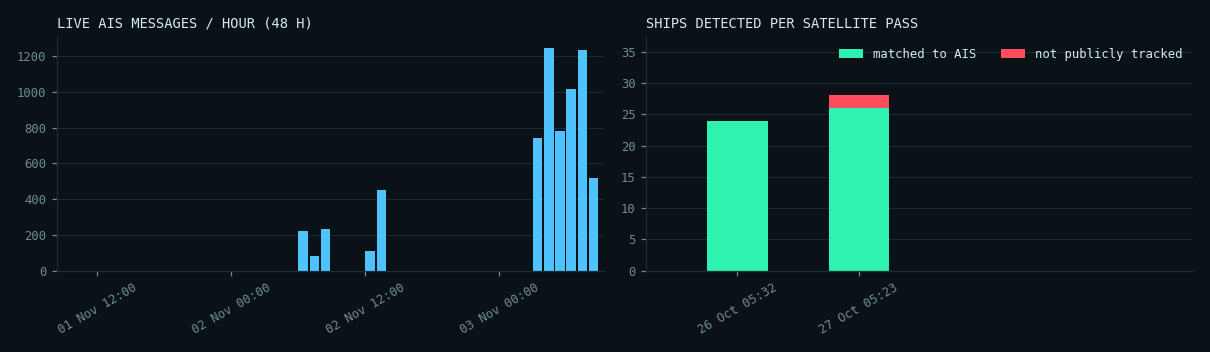
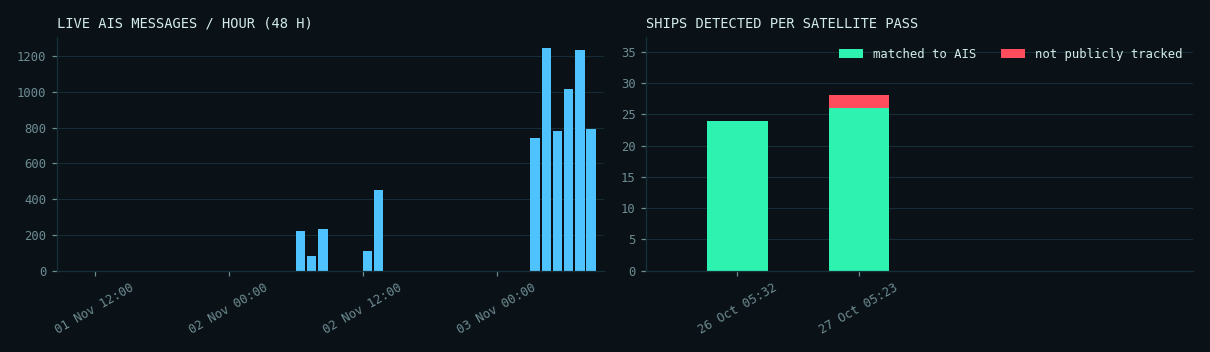
Automatic site update 2026-11-03 08:36 UTC

diff --git a/docs/denmark/index.html b/docs/denmark/index.html
@@ -83,13 +83,13 @@ footer{border-top:1px solid var(--line);padding:18px 0 28px;font:12px/1.6 var(--
   <div><div class="kicker">SAR &times; AIS &middot; MARITIME AWARENESS</div><div class="title">DARK VESSEL <b>DETECTION</b></div></div></a>
  <div class="status"><span class="pill"><span class="dot live"></span>AIS FEED <strong>LIVE</strong></span>
   <span class="pill">UTC <strong id="utc">--:--:--</strong></span>
-  <span class="pill">UPDATED <strong>03 Nov 08:22</strong></span></div>
+  <span class="pill">UPDATED <strong>03 Nov 08:36</strong></span></div>
 </div><nav class="tabs"><a class="" href="../index.html">OVERVIEW</a><a class="" href="../mumbai/index.html">MUMBAI</a><a class="on" href="../denmark/index.html">DENMARK</a><a class="" href="../nn/index.html">NEURAL NET</a><a class="" href="../demo/index.html">SIMULATION</a></nav></div></header>
 <main class="wrap"><div class="coords">SECTOR // DENMARK &middot; 55.55&ndash;55.85&deg;N &middot; 12.55&ndash;12.95&deg;E</div>
 <h1>Oresund, Copenhagen (Denmark/Sweden)</h1>
 <div class="grid">
  <div class="panel"><div class="label">Live AIS feed</div><div class="value small"><span class='ok'>RECEIVING</span></div><div class="muted mono" style="font-size:12px;margin-top:6px">0 min ago</div></div>
- <div class="panel"><div class="label">Ships broadcasting &middot; 30 min</div><div class="value cyan">64</div></div>
+ <div class="panel"><div class="label">Ships broadcasting &middot; 30 min</div><div class="value cyan">68</div></div>
  <div class="panel"><div class="label">Matched &middot; latest pass</div><div class="value ">26</div></div>
  <div class="panel"><div class="label">Not tracked &middot; high confidence</div><div class="value red">0</div></div>
  <div class="panel"><div class="label">Not tracked &middot; low confidence</div><div class="value amber">2</div></div>
@@ -98,7 +98,7 @@ footer{border-top:1px solid var(--line);padding:18px 0 28px;font:12px/1.6 var(--
 <div class="legend"><span><i style="background:var(--green)"></i>matched</span><span><i style="background:var(--red)"></i>not tracked &middot; high</span>
 <span><i style="background:var(--amber)"></i>not tracked &middot; low</span><span><i style="background:var(--cyan)"></i>live AIS</span></div>
 <div id="map" class="map"></div><script>
-const D=[{"lon": 12.574560869565218, "lat": 55.849597826086956, "length_m": 72.681575622935, "score": 0.6554655519501138, "shore_km": 0.14150886088341372, "status": "matched", "reason": "", "confidence": "high", "crop": "", "ship_prob": 0.9335045218467712}, {"lon": 12.704759174311928, "lat": 55.82280412844037, "length_m": 364.1071436957287, "score": 0.9904753373251979, "shore_km": 9.407061429825474, "status": "matched", "reason": "", "confidence": "high", "crop": "", "ship_prob": 0.9868959784507751}, {"lon": 12.786416463414636, "lat": 55.804669512195126, "length_m": 155.0522474362954, "score": 0.9999646038759398, "shore_km": 4.658419014138412, "status": "matched", "reason": "", "confidence": "high", "crop": "", "ship_prob": 0.9993557333946228}, {"lon": 12.88229375, "lat": 55.849146875, "length_m": 53.38783327710226, "score": 0.9899546194309776, "shore_km": 0.9067240720863213, "status": "candidate", "reason": "same_spot_in_another_pass", "confidence": "low", "crop": "crops/S1-Oresund-20261027_37.png", "ship_prob": 0.7905591130256653}, {"lon": 12.604004166666668, "lat": 55.75985, "length_m": 141.84238362073958, "score": 0.6867268898684522, "shore_km": 0.07168283192738693, "status": "matched", "reason": "", "confidence": "high", "crop": "", "ship_prob": 0.5051270127296448}, {"lon": 12.605736764705883, "lat": 55.75241323529412, "length_m": 122.11483240811877, "score": 0.9136889320646264, "shore_km": 0.6454382429486746, "status": "candidate", "reason": "same_spot_in_another_pass", "confidence": "low", "crop": "crops/S1-Oresund-20261027_77.png", "ship_prob": 0.7927113175392151}, {"lon": 12.703722571428573, "lat": 55.77917742857143, "length_m": 223.0817648726515, "score": 0.9996320924909895, "shore_km": 5.943270442766068, "status": "matched", "reason": "", "confidence": "high", "crop": "", "ship_prob": 0.9938097596168518}, {"lon": 12.902757692307693, "lat": 55.75654230769231, "length_m": 65.46226537445588, "score": 0.7187896049600956, "shore_km": 0.03584141596369347, "status": "matched", "reason": "", "confidence": "high", "crop": "", "ship_prob": 0.8691755533218384}, {"lon": 12.589922222222222, "lat": 55.725764814814816, "length_m": 146.45480845096748, "score": 0.9957587025210503, "shore_km": 0.034771280891766385, "status": "matched", "reason": "", "confidence": "high", "crop": "", "ship_prob": 0.9983701109886169}, {"lon": 12.598472047244096, "lat": 55.72077913385827, "length_m": 207.62671185403417, "score": 0.609772230082722, "shore_km": 0.14016751439395445, "status": "matched", "reason": "", "confidence": "high", "crop": "", "ship_prob": 0.6074324250221252}, {"lon": 12.589218, "lat": 55.712854, "length_m": 90.49550243938293, "score": 0.6486089656085543, "shore_km": 0.043464101114707984, "status": "matched", "reason": "", "confidence": "high", "crop": "", "ship_prob": 0.9998902082443237}, {"lon": 12.59024090909091, "lat": 55.71147090909091, "length_m": 162.54265478639104, "score": 1.0, "shore_km": 0.06146752127277559, "status": "matched", "reason": "", "confidence": "high", "crop": "", "ship_prob": 0.9999992847442627}, {"lon": 12.597835937500001, "lat": 55.701648437500005, "length_m": 133.31776511703256, "score": 0.9396217092764791, "shore_km": 0.06789309632894441, "status": "matched", "reason": "", "confidence": "high", "crop": "", "ship_prob": 0.9999727010726929}, {"lon": 12.60914, "lat": 55.69712, "length_m": 65.36743236464424, "score": 0.7827588237578229, "shore_km": 0.03134240904220623, "status": "matched", "reason": "", "confidence": "high", "crop": "", "ship_prob": 0.9867132902145386}, {"lon": 12.668552272727274, "lat": 55.72007840909091, "length_m": 207.26605497726354, "score": 0.6251792307103263, "shore_km": 0.03584141596369347, "status": "matched", "reason": "", "confidence": "high", "crop": "", "ship_prob": 0.9087074398994446}, {"lon": 12.5996, "lat": 55.68885, "length_m": 40.00855981470757, "score": 0.7664068666153926, "shore_km": 0.024587008509110237, "status": "matched", "reason": "", "confidence": "high", "crop": "", "ship_prob": 0.9766618013381958}, {"lon": 12.595819230769232, "lat": 55.67989871794872, "length_m": 127.62371588738732, "score": 0.9426870407335851, "shore_km": 0.05068741655051085, "status": "matched", "reason": "", "confidence": "high", "crop": "", "ship_prob": 0.9998841285705566}, {"lon": 12.594722222222224, "lat": 55.67918888888889, "length_m": 40.64467714079742, "score": 0.7639524834029205, "shore_km": 0.043464101114707984, "status": "matched", "reason": "", "confidence": "high", "crop": "", "ship_prob": 0.9999454021453857}, {"lon": 12.610660714285714, "lat": 55.69618571428572, "length_m": 94.51225356515693, "score": 0.9621795096736379, "shore_km": 0.03134240904220623, "status": "matched", "reason": "", "confidence": "high", "crop": "", "ship_prob": 0.999042809009552}, {"lon": 12.649045000000001, "lat": 55.692155, "length_m": 80.63364746000343, "score": 0.8515033668168979, "shore_km": 0.8863693295037299, "status": "matched", "reason": "", "confidence": "high", "crop": "", "ship_prob": 0.4333752989768982}, {"lon": 12.630751724137932, "lat": 55.685453448275865, "length_m": 125.00287123881988, "score": 0.93629426700422, "shore_km": 0.043464101114707984, "status": "matched", "reason": "", "confidence": "high", "crop": "", "ship_prob": 0.9975905418395996}, {"lon": 12.634987254901962, "lat": 55.677338235294116, "length_m": 276.5478352749318, "score": 0.7686103584091717, "shore_km": 0.024587008509110237, "status": "matched", "reason": "", "confidence": "high", "crop": "", "ship_prob": 0.9729636907577515}, {"lon": 12.68766150442478, "lat": 55.69581814159292, "length_m": 176.8074930452176, "score": 0.923202226335388, "shore_km": 2.6834920471942074, "status": "matched", "reason": "", "confidence": "high", "crop": "", "ship_prob": 0.8427141904830933}, {"lon": 12.65826847826087, "lat": 55.63610108695652, "length_m": 174.21377549767067, "score": 0.9833187000337672, "shore_km": 0.043464101114707984, "status": "matched", "reason": "", "confidence": "high", "crop": "", "ship_prob": 0.9998973608016968}, {"lon": 12.680683333333334, "lat": 55.610910000000004, "length_m": 74.22790892756812, "score": 0.6314184609397504, "shore_km": 0.03134240904220623, "status": "matched", "reason": "", "confidence": "high", "crop": "", "ship_prob": 0.44054293632507324}, {"lon": 12.868352132196163, "lat": 55.60022420042644, "length_m": 299.20726350177785, "score": 0.9999960398718075, "shore_km": 2.8169298200726325, "status": "matched", "reason": "", "confidence": "high", "crop": "", "ship_prob": 0.9967911839485168}, {"lon": 12.680875, "lat": 55.59323, "length_m": 95.51211981545671, "score": 0.7585723176580392, "shore_km": 0.03584141596369347, "status": "matched", "reason": "", "confidence": "high", "crop": "", "ship_prob": 0.797581672668457}, {"lon": 12.706387741935485, "lat": 55.56306903225806, "length_m": 301.4640427512081, "score": 0.9999731380181186, "shore_km": 3.1965238712919084, "status": "matched", "reason": "", "confidence": "high", "crop": "", "ship_prob": 0.9941650032997131}],LIVE=[{"lon": 12.830425, "lat": 55.85599, "sog": 0.0, "age": 28}, {"lon": 12.630728333333334, "lat": 55.68986333333333, "sog": 0.1, "age": 27}, {"lon": 13.03514, "lat": 55.6247, "sog": 0.1, "age": 26}, {"lon": 12.480878333333333, "lat": 55.60677666666666, "sog": 0.0, "age": 16}, {"lon": 12.639091666666667, "lat": 55.67879333333334, "sog": 1.0, "age": 12}, {"lon": 12.592986666666667, "lat": 55.67928, "sog": 0.0, "age": 12}, {"lon": 12.827605, "lat": 55.86271, "sog": 0.0, "age": 11}, {"lon": 12.730686666666665, "lat": 55.98034, "sog": 0.0, "age": 9}, {"lon": 12.990166666666665, "lat": 55.62689833333333, "sog": 0.0, "age": 9}, {"lon": 12.831391666666667, "lat": 55.85628, "sog": 0.0, "age": 8}, {"lon": 12.646895, "lat": 55.67737833333333, "sog": 0.0, "age": 8}, {"lon": 12.66594, "lat": 55.71981666666667, "sog": 0.1, "age": 8}, {"lon": 12.999791666666665, "lat": 55.618365000000004, "sog": 0.0, "age": 8}, {"lon": 12.892128333333334, "lat": 55.52374833333333, "sog": 0.0, "age": 7}, {"lon": 12.489641666666667, "lat": 55.51907333333334, "sog": 0.2, "age": 7}, {"lon": 12.688881666666667, "lat": 55.64696166666667, "sog": 8.1, "age": 6}, {"lon": 12.8329, "lat": 55.85850666666667, "sog": 0.0, "age": 6}, {"lon": 13.033326666666666, "lat": 55.62448833333334, "sog": 0.0, "age": 6}, {"lon": 12.809384999999999, "lat": 55.789375, "sog": 5.4, "age": 5}, {"lon": 12.997251666666667, "lat": 55.613775000000004, "sog": 0.0, "age": 5}, {"lon": 12.681753333333335, "lat": 55.691345, "sog": 5.9, "age": 5}, {"lon": 12.903498333333333, "lat": 55.75664166666666, "sog": 0.0, "age": 5}, {"lon": 12.744433333333335, "lat": 55.993325, "sog": 0.0, "age": 4}, {"lon": 12.625316666666667, "lat": 55.69106166666666, "sog": 0.0, "age": 4}, {"lon": 12.603466666666666, "lat": 55.76049166666667, "sog": 0.0, "age": 4}, {"lon": 12.67758, "lat": 55.98419166666667, "sog": 10.6, "age": 4}, {"lon": 12.482451666666666, "lat": 55.60140666666667, "sog": 0.0, "age": 4}, {"lon": 12.833683333333333, "lat": 55.855783333333335, "sog": 0.0, "age": 3}, {"lon": 12.739681666666666, "lat": 55.897131666666674, "sog": 9.6, "age": 3}, {"lon": 12.823663333333334, "lat": 55.86639, "sog": 0.1, "age": 3}, {"lon": 12.593518333333332, "lat": 55.67912333333334, "sog": 0.0, "age": 3}, {"lon": 12.603548333333332, "lat": 55.760576666666665, "sog": 0.0, "age": 3}, {"lon": 12.690883333333334, "lat": 55.77538333333334, "sog": 14.9, "age": 3}, {"lon": 12.831928333333334, "lat": 55.85404166666667, "sog": 0.0, "age": 3}, {"lon": 12.647468333333334, "lat": 55.67688333333333, "sog": 0.0, "age": 3}, {"lon": 12.721328333333334, "lat": 55.92482, "sog": 10.3, "age": 3}, {"lon": 12.594946666666667, "lat": 55.68246333333333, "sog": 0.0, "age": 2}, {"lon": 12.521343333333334, "lat": 55.52117166666667, "sog": 18.8, "age": 2}, {"lon": 12.796118333333334, "lat": 55.55382833333333, "sog": 10.3, "age": 2}, {"lon": 12.634115000000001, "lat": 55.675761666666666, "sog": 0.0, "age": 2}, {"lon": 12.70016, "lat": 55.59504333333334, "sog": 9.5, "age": 2}, {"lon": 12.83515, "lat": 55.85987, "sog": 0.0, "age": 2}, {"lon": 12.833300000000001, "lat": 55.855866666666664, "sog": 0.0, "age": 2}, {"lon": 12.67643, "lat": 55.93197333333333, "sog": 0.0, "age": 1}, {"lon": 12.492038333333333, "lat": 55.56097833333333, "sog": 7.5, "age": 1}, {"lon": 12.676893333333334, "lat": 55.593920000000004, "sog": 0.0, "age": 1}, {"lon": 13.058505, "lat": 55.67566333333333, "sog": 0.0, "age": 1}, {"lon": 12.828123333333334, "lat": 55.86167833333333, "sog": 0.0, "age": 1}, {"lon": 12.688268333333333, "lat": 55.68913166666667, "sog": 8.5, "age": 1}, {"lon": 12.744454999999999, "lat": 55.99321333333333, "sog": 0.0, "age": 1}, {"lon": 12.988933333333334, "lat": 55.62665833333333, "sog": 0.0, "age": 1}, {"lon": 12.840093333333334, "lat": 55.5841, "sog": 10.8, "age": 1}, {"lon": 12.528416666666667, "lat": 55.46859666666667, "sog": 4.4, "age": 1}, {"lon": 12.680121666666668, "lat": 55.592888333333335, "sog": 0.0, "age": 0}, {"lon": 12.824866666666667, "lat": 55.865916666666664, "sog": 0.0, "age": 0}, {"lon": 12.723086666666667, "lat": 55.93900166666666, "sog": 1.3, "age": 0}, {"lon": 12.501045, "lat": 55.61134333333334, "sog": 0.0, "age": 0}, {"lon": 12.572743333333333, "lat": 55.850855, "sog": 0.0, "age": 0}, {"lon": 12.730271666666665, "lat": 55.75218666666667, "sog": 0.0, "age": 0}, {"lon": 12.718261666666667, "lat": 55.81715666666666, "sog": 11.9, "age": 0}, {"lon": 13.033801666666667, "lat": 55.62455, "sog": 0.0, "age": 0}, {"lon": 12.643278333333335, "lat": 55.679096666666666, "sog": 0.0, "age": 0}, {"lon": 12.726116666666666, "lat": 55.92778333333333, "sog": 15.2, "age": 0}, {"lon": 12.701908333333334, "lat": 55.988905, "sog": 12.9, "age": 0}],B=[[55.55,12.55],[55.85,12.95]];const m=L.map('map',{zoomSnap:.25}).fitBounds(B);
+const D=[{"lon": 12.574560869565218, "lat": 55.849597826086956, "length_m": 72.681575622935, "score": 0.6554655519501138, "shore_km": 0.14150886088341372, "status": "matched", "reason": "", "confidence": "high", "crop": "", "ship_prob": 0.9335045218467712}, {"lon": 12.704759174311928, "lat": 55.82280412844037, "length_m": 364.1071436957287, "score": 0.9904753373251979, "shore_km": 9.407061429825474, "status": "matched", "reason": "", "confidence": "high", "crop": "", "ship_prob": 0.9868959784507751}, {"lon": 12.786416463414636, "lat": 55.804669512195126, "length_m": 155.0522474362954, "score": 0.9999646038759398, "shore_km": 4.658419014138412, "status": "matched", "reason": "", "confidence": "high", "crop": "", "ship_prob": 0.9993557333946228}, {"lon": 12.88229375, "lat": 55.849146875, "length_m": 53.38783327710226, "score": 0.9899546194309776, "shore_km": 0.9067240720863213, "status": "candidate", "reason": "same_spot_in_another_pass", "confidence": "low", "crop": "crops/S1-Oresund-20261027_37.png", "ship_prob": 0.7905591130256653}, {"lon": 12.604004166666668, "lat": 55.75985, "length_m": 141.84238362073958, "score": 0.6867268898684522, "shore_km": 0.07168283192738693, "status": "matched", "reason": "", "confidence": "high", "crop": "", "ship_prob": 0.5051270127296448}, {"lon": 12.605736764705883, "lat": 55.75241323529412, "length_m": 122.11483240811877, "score": 0.9136889320646264, "shore_km": 0.6454382429486746, "status": "candidate", "reason": "same_spot_in_another_pass", "confidence": "low", "crop": "crops/S1-Oresund-20261027_77.png", "ship_prob": 0.7927113175392151}, {"lon": 12.703722571428573, "lat": 55.77917742857143, "length_m": 223.0817648726515, "score": 0.9996320924909895, "shore_km": 5.943270442766068, "status": "matched", "reason": "", "confidence": "high", "crop": "", "ship_prob": 0.9938097596168518}, {"lon": 12.902757692307693, "lat": 55.75654230769231, "length_m": 65.46226537445588, "score": 0.7187896049600956, "shore_km": 0.03584141596369347, "status": "matched", "reason": "", "confidence": "high", "crop": "", "ship_prob": 0.8691755533218384}, {"lon": 12.589922222222222, "lat": 55.725764814814816, "length_m": 146.45480845096748, "score": 0.9957587025210503, "shore_km": 0.034771280891766385, "status": "matched", "reason": "", "confidence": "high", "crop": "", "ship_prob": 0.9983701109886169}, {"lon": 12.598472047244096, "lat": 55.72077913385827, "length_m": 207.62671185403417, "score": 0.609772230082722, "shore_km": 0.14016751439395445, "status": "matched", "reason": "", "confidence": "high", "crop": "", "ship_prob": 0.6074324250221252}, {"lon": 12.589218, "lat": 55.712854, "length_m": 90.49550243938293, "score": 0.6486089656085543, "shore_km": 0.043464101114707984, "status": "matched", "reason": "", "confidence": "high", "crop": "", "ship_prob": 0.9998902082443237}, {"lon": 12.59024090909091, "lat": 55.71147090909091, "length_m": 162.54265478639104, "score": 1.0, "shore_km": 0.06146752127277559, "status": "matched", "reason": "", "confidence": "high", "crop": "", "ship_prob": 0.9999992847442627}, {"lon": 12.597835937500001, "lat": 55.701648437500005, "length_m": 133.31776511703256, "score": 0.9396217092764791, "shore_km": 0.06789309632894441, "status": "matched", "reason": "", "confidence": "high", "crop": "", "ship_prob": 0.9999727010726929}, {"lon": 12.60914, "lat": 55.69712, "length_m": 65.36743236464424, "score": 0.7827588237578229, "shore_km": 0.03134240904220623, "status": "matched", "reason": "", "confidence": "high", "crop": "", "ship_prob": 0.9867132902145386}, {"lon": 12.668552272727274, "lat": 55.72007840909091, "length_m": 207.26605497726354, "score": 0.6251792307103263, "shore_km": 0.03584141596369347, "status": "matched", "reason": "", "confidence": "high", "crop": "", "ship_prob": 0.9087074398994446}, {"lon": 12.5996, "lat": 55.68885, "length_m": 40.00855981470757, "score": 0.7664068666153926, "shore_km": 0.024587008509110237, "status": "matched", "reason": "", "confidence": "high", "crop": "", "ship_prob": 0.9766618013381958}, {"lon": 12.595819230769232, "lat": 55.67989871794872, "length_m": 127.62371588738732, "score": 0.9426870407335851, "shore_km": 0.05068741655051085, "status": "matched", "reason": "", "confidence": "high", "crop": "", "ship_prob": 0.9998841285705566}, {"lon": 12.594722222222224, "lat": 55.67918888888889, "length_m": 40.64467714079742, "score": 0.7639524834029205, "shore_km": 0.043464101114707984, "status": "matched", "reason": "", "confidence": "high", "crop": "", "ship_prob": 0.9999454021453857}, {"lon": 12.610660714285714, "lat": 55.69618571428572, "length_m": 94.51225356515693, "score": 0.9621795096736379, "shore_km": 0.03134240904220623, "status": "matched", "reason": "", "confidence": "high", "crop": "", "ship_prob": 0.999042809009552}, {"lon": 12.649045000000001, "lat": 55.692155, "length_m": 80.63364746000343, "score": 0.8515033668168979, "shore_km": 0.8863693295037299, "status": "matched", "reason": "", "confidence": "high", "crop": "", "ship_prob": 0.4333752989768982}, {"lon": 12.630751724137932, "lat": 55.685453448275865, "length_m": 125.00287123881988, "score": 0.93629426700422, "shore_km": 0.043464101114707984, "status": "matched", "reason": "", "confidence": "high", "crop": "", "ship_prob": 0.9975905418395996}, {"lon": 12.634987254901962, "lat": 55.677338235294116, "length_m": 276.5478352749318, "score": 0.7686103584091717, "shore_km": 0.024587008509110237, "status": "matched", "reason": "", "confidence": "high", "crop": "", "ship_prob": 0.9729636907577515}, {"lon": 12.68766150442478, "lat": 55.69581814159292, "length_m": 176.8074930452176, "score": 0.923202226335388, "shore_km": 2.6834920471942074, "status": "matched", "reason": "", "confidence": "high", "crop": "", "ship_prob": 0.8427141904830933}, {"lon": 12.65826847826087, "lat": 55.63610108695652, "length_m": 174.21377549767067, "score": 0.9833187000337672, "shore_km": 0.043464101114707984, "status": "matched", "reason": "", "confidence": "high", "crop": "", "ship_prob": 0.9998973608016968}, {"lon": 12.680683333333334, "lat": 55.610910000000004, "length_m": 74.22790892756812, "score": 0.6314184609397504, "shore_km": 0.03134240904220623, "status": "matched", "reason": "", "confidence": "high", "crop": "", "ship_prob": 0.44054293632507324}, {"lon": 12.868352132196163, "lat": 55.60022420042644, "length_m": 299.20726350177785, "score": 0.9999960398718075, "shore_km": 2.8169298200726325, "status": "matched", "reason": "", "confidence": "high", "crop": "", "ship_prob": 0.9967911839485168}, {"lon": 12.680875, "lat": 55.59323, "length_m": 95.51211981545671, "score": 0.7585723176580392, "shore_km": 0.03584141596369347, "status": "matched", "reason": "", "confidence": "high", "crop": "", "ship_prob": 0.797581672668457}, {"lon": 12.706387741935485, "lat": 55.56306903225806, "length_m": 301.4640427512081, "score": 0.9999731380181186, "shore_km": 3.1965238712919084, "status": "matched", "reason": "", "confidence": "high", "crop": "", "ship_prob": 0.9941650032997131}],LIVE=[{"lon": 12.639091666666667, "lat": 55.67879333333334, "sog": 1.0, "age": 27}, {"lon": 12.827605, "lat": 55.86271, "sog": 0.0, "age": 25}, {"lon": 12.730686666666665, "lat": 55.98034, "sog": 0.0, "age": 23}, {"lon": 12.990166666666665, "lat": 55.62689833333333, "sog": 0.0, "age": 23}, {"lon": 12.831391666666667, "lat": 55.85628, "sog": 0.0, "age": 23}, {"lon": 12.8329, "lat": 55.85850666666667, "sog": 0.0, "age": 20}, {"lon": 12.809384999999999, "lat": 55.789375, "sog": 5.4, "age": 20}, {"lon": 12.997251666666667, "lat": 55.613775000000004, "sog": 0.0, "age": 19}, {"lon": 12.603466666666666, "lat": 55.76049166666667, "sog": 0.0, "age": 18}, {"lon": 12.833683333333333, "lat": 55.855783333333335, "sog": 0.0, "age": 18}, {"lon": 12.603548333333332, "lat": 55.760576666666665, "sog": 0.0, "age": 17}, {"lon": 12.594946666666667, "lat": 55.68246333333333, "sog": 0.0, "age": 16}, {"lon": 12.83515, "lat": 55.85987, "sog": 0.0, "age": 16}, {"lon": 12.833300000000001, "lat": 55.855866666666664, "sog": 0.0, "age": 16}, {"lon": 12.492038333333333, "lat": 55.56097833333333, "sog": 7.5, "age": 15}, {"lon": 12.828123333333334, "lat": 55.86167833333333, "sog": 0.0, "age": 15}, {"lon": 12.701908333333334, "lat": 55.988905, "sog": 12.9, "age": 14}, {"lon": 12.830431666666668, "lat": 55.85602333333333, "sog": 0.0, "age": 13}, {"lon": 12.892198333333333, "lat": 55.523715, "sog": 0.0, "age": 12}, {"lon": 12.687161666666666, "lat": 55.96540166666667, "sog": 10.9, "age": 12}, {"lon": 12.64747, "lat": 55.676885, "sog": 0.0, "age": 12}, {"lon": 12.722166666666668, "lat": 55.93974, "sog": 1.3, "age": 12}, {"lon": 13.033375000000001, "lat": 55.624435, "sog": 0.0, "age": 11}, {"lon": 12.526053333333333, "lat": 55.47304, "sog": 4.1, "age": 11}, {"lon": 12.593545, "lat": 55.679175, "sog": 0.0, "age": 9}, {"lon": 12.676919999999999, "lat": 55.59390166666667, "sog": 0.0, "age": 7}, {"lon": 12.999793333333335, "lat": 55.618365000000004, "sog": 0.0, "age": 7}, {"lon": 12.53445, "lat": 55.524188333333335, "sog": 19.8, "age": 7}, {"lon": 12.599036666666667, "lat": 55.68904166666667, "sog": 0.0, "age": 6}, {"lon": 13.035161666666665, "lat": 55.624705, "sog": 0.1, "age": 5}, {"lon": 12.655683333333334, "lat": 55.72935, "sog": 15.0, "age": 5}, {"lon": 12.62528, "lat": 55.691065, "sog": 0.0, "age": 5}, {"lon": 12.831928333333334, "lat": 55.85404166666667, "sog": 0.0, "age": 5}, {"lon": 12.69608, "lat": 55.42200666666667, "sog": 11.1, "age": 5}, {"lon": 12.744439999999999, "lat": 55.99322333333334, "sog": 0.0, "age": 5}, {"lon": 12.903505, "lat": 55.756636666666665, "sog": 0.1, "age": 5}, {"lon": 12.676256666666665, "lat": 55.932046666666665, "sog": 0.0, "age": 5}, {"lon": 12.572745, "lat": 55.85084833333334, "sog": 0.0, "age": 4}, {"lon": 12.728375, "lat": 55.85230166666667, "sog": 11.9, "age": 3}, {"lon": 12.738768333333333, "lat": 55.89027166666666, "sog": 9.7, "age": 3}, {"lon": 12.82585, "lat": 55.854016666666666, "sog": 0.0, "age": 3}, {"lon": 12.839925, "lat": 55.582755, "sog": 10.9, "age": 3}, {"lon": 12.984816666666667, "lat": 55.62298166666667, "sog": 18.0, "age": 3}, {"lon": 12.988918333333334, "lat": 55.626675, "sog": 0.0, "age": 3}, {"lon": 12.501033333333334, "lat": 55.611356666666666, "sog": 0.0, "age": 2}, {"lon": 12.73043, "lat": 55.75215166666667, "sog": 0.0, "age": 2}, {"lon": 12.680068333333333, "lat": 55.59288333333333, "sog": 0.0, "age": 2}, {"lon": 12.630783333333333, "lat": 55.689840000000004, "sog": 0.0, "age": 2}, {"lon": 12.497011666666667, "lat": 55.53411333333334, "sog": 7.0, "age": 2}, {"lon": 12.646908333333332, "lat": 55.677371666666666, "sog": 0.0, "age": 2}, {"lon": 12.823661666666668, "lat": 55.866409999999995, "sog": 0.1, "age": 1}, {"lon": 12.696940000000001, "lat": 55.605983333333334, "sog": 7.5, "age": 1}, {"lon": 12.88644, "lat": 55.614673333333336, "sog": 10.1, "age": 1}, {"lon": 12.634125000000001, "lat": 55.675756666666665, "sog": 0.0, "age": 1}, {"lon": 12.74227, "lat": 55.878238333333336, "sog": 15.1, "age": 1}, {"lon": 12.665913333333332, "lat": 55.719831666666664, "sog": 0.0, "age": 1}, {"lon": 13.058508333333332, "lat": 55.67567666666666, "sog": 0.0, "age": 1}, {"lon": 12.689816666666667, "lat": 55.72338, "sog": 8.9, "age": 1}, {"lon": 12.800051666666667, "lat": 55.86782, "sog": 9.9, "age": 1}, {"lon": 13.033778333333334, "lat": 55.62455666666666, "sog": 0.0, "age": 0}, {"lon": 12.68256, "lat": 55.66080833333333, "sog": 6.3, "age": 0}, {"lon": 12.696246666666667, "lat": 55.636190000000006, "sog": 10.2, "age": 0}, {"lon": 12.634856666666668, "lat": 55.68714166666667, "sog": 0.0, "age": 0}, {"lon": 12.592981666666667, "lat": 55.679296666666666, "sog": 0.0, "age": 0}, {"lon": 12.482456666666668, "lat": 55.60140666666667, "sog": 0.0, "age": 0}, {"lon": 12.64327, "lat": 55.67906833333333, "sog": 0.1, "age": 0}, {"lon": 12.680443333333333, "lat": 55.61125333333334, "sog": 0.0, "age": 0}, {"lon": 12.744451666666667, "lat": 55.993305, "sog": 0.0, "age": 0}],B=[[55.55,12.55],[55.85,12.95]];const m=L.map('map',{zoomSnap:.25}).fitBounds(B);
 // re-fit once layout has settled: if the container had no size when the map was created, Leaflet falls back to zoom 0
 const refit=()=>{m.invalidateSize();m.fitBounds(B);};setTimeout(refit,0);window.addEventListener('load',refit);
 // standard OSM tiles (no API key), turned into a dark "radar console" basemap with a CSS filter (.radar-tiles)
@@ -116,8 +116,8 @@ L.control.layers(null,{'Radar detections (selected pass)':det,'Live AIS, last 30
 </script>
 <h2>Pass log</h2><div class='tablewrap'><table><thead><tr><th>pass (UTC)</th><th>ships</th><th>matched</th><th>not tracked</th><th>low conf.</th><th>match rate</th><th>AIS msgs</th></tr></thead><tbody><tr><td>2026-10-27 05:23 UTC</td><td>28</td><td class='ok'>26</td><td class='bad'>0</td><td style='color:var(--amber)'>2</td><td>93%</td><td>10687</td></tr><tr><td>2026-10-26 05:32 UTC</td><td>24</td><td class='ok'>24</td><td class='bad'>0</td><td style='color:var(--amber)'>0</td><td>100%</td><td>11603</td></tr></tbody></table></div>
 <h2>Telemetry</h2><img class="chart" src="charts.png" alt="AIS messages per hour and ships detected per pass">
-<ul class="acq" style="margin-top:10px"><li>AIS MSG / H &middot; 1338</li><li>FEED GAPS 24 H &middot; 16
-(1157 min)</li></ul>
+<ul class="acq" style="margin-top:10px"><li>AIS MSG / H &middot; 1312</li><li>FEED GAPS 24 H &middot; 16
+(1144 min)</li></ul>
 <h2>Sentinel-1 acquisitions &middot; 14 days</h2><ul class="acq"><li>2026-11-02 05:23 UTC</li><li>2026-11-01 16:44 UTC</li><li>2026-11-01 05:31 UTC</li><li>2026-10-31 16:52 UTC</li><li>2026-10-30 17:00 UTC</li><li>2026-10-27 05:23 UTC</li><li>2026-10-26 05:32 UTC</li><li>2026-10-25 16:52 UTC</li></ul></main>
 <footer><div class="wrap">Contains modified Copernicus Sentinel data 2026 &middot; AIS: aisstream.io, Danish Maritime Authority &middot;
 &copy; OpenStreetMap contributors</div></footer>

diff --git a/docs/index.html b/docs/index.html
@@ -83,13 +83,13 @@ footer{border-top:1px solid var(--line);padding:18px 0 28px;font:12px/1.6 var(--
   <div><div class="kicker">SAR &times; AIS &middot; MARITIME AWARENESS</div><div class="title">DARK VESSEL <b>DETECTION</b></div></div></a>
  <div class="status"><span class="pill"><span class="dot live"></span>AIS FEED <strong>LIVE</strong></span>
   <span class="pill">UTC <strong id="utc">--:--:--</strong></span>
-  <span class="pill">UPDATED <strong>03 Nov 08:22</strong></span></div>
+  <span class="pill">UPDATED <strong>03 Nov 08:36</strong></span></div>
 </div><nav class="tabs"><a class="on" href="index.html">OVERVIEW</a><a class="" href="mumbai/index.html">MUMBAI</a><a class="" href="denmark/index.html">DENMARK</a><a class="" href="nn/index.html">NEURAL NET</a><a class="" href="demo/index.html">SIMULATION</a></nav></div></header>
 <main class="wrap"><div class="coords">SYSTEM OVERVIEW</div>
 <h1>Ships the radar sees that nobody is tracking</h1>
 <div class="grid" style="margin-top:18px"><div class="panel"><div class="label">Satellite passes processed</div><div class="value ">3</div></div><div class="panel"><div class="label">Ships matched to AIS</div><div class="value ">50</div></div>
 <div class="panel"><div class="label">Not tracked &middot; high confidence</div><div class="value red">0</div></div><div class="panel"><div class="label">Not tracked &middot; low confidence</div><div class="value amber">117</div></div>
-<div class="panel"><div class="label">Broadcasting now &middot; 30 min</div><div class="value cyan">64</div></div></div>
+<div class="panel"><div class="label">Broadcasting now &middot; 30 min</div><div class="value cyan">68</div></div></div>
 <h2>Pipeline</h2><div class="flow"><div class="step"><div class="n">01</div><div class="t">Radar image</div><div class="d">Sentinel-1 SAR &middot; VH &middot; 10 m</div></div><div class="step"><div class="n">02</div><div class="t">Propose</div><div class="d">CFAR &middot; 5.5 &times; local sea</div></div><a class="step nn" href="nn/index.html"><div class="n">03 &middot; NEURAL NETWORK</div><div class="t">ShipCNN</div><div class="d">CNN &middot; P(ship)</div></a><div class="step"><div class="n">04</div><div class="t">Align AIS</div><div class="d">Dead reckoning &middot; &plusmn; 30 min</div></div><div class="step"><div class="n">05</div><div class="t">Match</div><div class="d">Hungarian &middot; speed-aware gate</div></div><div class="step"><div class="n">06</div><div class="t">Flag</div><div class="d">High / low confidence</div></div></div>
 <h2>System</h2><ul class="acq"><li>RECORDER &middot; LIVE</li><li>PASS SWEEP &middot; EVERY 15 MIN</li><li>COVERAGE &ge; 65%</li><li>SHIPCNN &middot; THRESHOLD 0.69</li></ul>
 <h2>Sectors</h2><div class="grid"><a class="panel region" href="mumbai/index.html"><div class="label">Sector // MUMBAI</div>
@@ -105,10 +105,10 @@ footer{border-top:1px solid var(--line);padding:18px 0 28px;font:12px/1.6 var(--
 <div class="kv"><span>ships matched to AIS</span><span class="ok">50</span></div>
 <div class="kv"><span>not tracked, high confidence</span><span class="bad">0</span></div>
 <div class="kv"><span>not tracked, low confidence</span><span style="color:var(--amber)">2</span></div>
-<div class="kv"><span>broadcasting now (30 min)</span><span style="color:var(--cyan)">64</span></div>
+<div class="kv"><span>broadcasting now (30 min)</span><span style="color:var(--cyan)">68</span></div>
 <div class="go">OPEN SECTOR &rarr;</div></a></div>
 <h2>Run log</h2>
-<div class="tablewrap"><table><thead><tr><th>run (UTC)</th><th>mumbai live</th><th>mumbai msg/h</th><th>denmark live</th><th>denmark msg/h</th></tr></thead><tbody><tr><td>2026-11-03 08:22</td><td>0</td><td>0</td><td>64</td><td>1338</td></tr><tr><td>2026-11-03 08:21</td><td>0</td><td>0</td><td>64</td><td>1324</td></tr><tr><td>2026-11-03 08:07</td><td>0</td><td>0</td><td>66</td><td>1258</td></tr><tr><td>2026-11-03 08:05</td><td>0</td><td>0</td><td>65</td><td>1252</td></tr><tr><td>2026-11-03 07:51</td><td>0</td><td>0</td><td>63</td><td>1190</td></tr><tr><td>2026-11-03 07:50</td><td>0</td><td>0</td><td>64</td><td>1182</td></tr><tr><td>2026-11-03 07:36</td><td>0</td><td>0</td><td>61</td><td>1216</td></tr><tr><td>2026-11-03 07:36</td><td>0</td><td>0</td><td>62</td><td>1218</td></tr><tr><td>2026-11-03 07:35</td><td>0</td><td>0</td><td>61</td><td>1204</td></tr><tr><td>2026-11-03 07:21</td><td>0</td><td>0</td><td>57</td><td>1152</td></tr><tr><td>2026-11-03 07:20</td><td>0</td><td>0</td><td>57</td><td>1158</td></tr><tr><td>2026-11-03 07:20</td><td>0</td><td>0</td><td>58</td><td>1154</td></tr><tr><td>2026-11-03 07:06</td><td>0</td><td>0</td><td>56</td><td>1126</td></tr><tr><td>2026-11-03 07:05</td><td>0</td><td>0</td><td>56</td><td>1084</td></tr><tr><td>2026-11-03 06:51</td><td>0</td><td>0</td><td>56</td><td>848</td></tr><tr><td>2026-11-03 06:49</td><td>0</td><td>0</td><td>55</td><td>824</td></tr><tr><td>2026-11-03 06:35</td><td>0</td><td>0</td><td>58</td><td>800</td></tr><tr><td>2026-11-03 06:34</td><td>0</td><td>0</td><td>58</td><td>816</td></tr><tr><td>2026-11-03 06:20</td><td>0</td><td>0</td><td>51</td><td>876</td></tr><tr><td>2026-11-03 06:19</td><td>0</td><td>0</td><td>47</td><td>866</td></tr><tr><td>2026-11-03 05:46</td><td>0</td><td>0</td><td>62</td><td>986</td></tr><tr><td>2026-11-03 05:44</td><td>0</td><td>0</td><td>62</td><td>992</td></tr><tr><td>2026-11-03 05:30</td><td>0</td><td>0</td><td>57</td><td>972</td></tr><tr><td>2026-11-03 05:29</td><td>0</td><td>0</td><td>57</td><td>970</td></tr></tbody></table></div></main>
+<div class="tablewrap"><table><thead><tr><th>run (UTC)</th><th>mumbai live</th><th>mumbai msg/h</th><th>denmark live</th><th>denmark msg/h</th></tr></thead><tbody><tr><td>2026-11-03 08:36</td><td>0</td><td>0</td><td>68</td><td>1312</td></tr><tr><td>2026-11-03 08:22</td><td>0</td><td>0</td><td>64</td><td>1338</td></tr><tr><td>2026-11-03 08:21</td><td>0</td><td>0</td><td>64</td><td>1324</td></tr><tr><td>2026-11-03 08:07</td><td>0</td><td>0</td><td>66</td><td>1258</td></tr><tr><td>2026-11-03 08:05</td><td>0</td><td>0</td><td>65</td><td>1252</td></tr><tr><td>2026-11-03 07:51</td><td>0</td><td>0</td><td>63</td><td>1190</td></tr><tr><td>2026-11-03 07:50</td><td>0</td><td>0</td><td>64</td><td>1182</td></tr><tr><td>2026-11-03 07:36</td><td>0</td><td>0</td><td>61</td><td>1216</td></tr><tr><td>2026-11-03 07:36</td><td>0</td><td>0</td><td>62</td><td>1218</td></tr><tr><td>2026-11-03 07:35</td><td>0</td><td>0</td><td>61</td><td>1204</td></tr><tr><td>2026-11-03 07:21</td><td>0</td><td>0</td><td>57</td><td>1152</td></tr><tr><td>2026-11-03 07:20</td><td>0</td><td>0</td><td>57</td><td>1158</td></tr><tr><td>2026-11-03 07:20</td><td>0</td><td>0</td><td>58</td><td>1154</td></tr><tr><td>2026-11-03 07:06</td><td>0</td><td>0</td><td>56</td><td>1126</td></tr><tr><td>2026-11-03 07:05</td><td>0</td><td>0</td><td>56</td><td>1084</td></tr><tr><td>2026-11-03 06:51</td><td>0</td><td>0</td><td>56</td><td>848</td></tr><tr><td>2026-11-03 06:49</td><td>0</td><td>0</td><td>55</td><td>824</td></tr><tr><td>2026-11-03 06:35</td><td>0</td><td>0</td><td>58</td><td>800</td></tr><tr><td>2026-11-03 06:34</td><td>0</td><td>0</td><td>58</td><td>816</td></tr><tr><td>2026-11-03 06:20</td><td>0</td><td>0</td><td>51</td><td>876</td></tr><tr><td>2026-11-03 06:19</td><td>0</td><td>0</td><td>47</td><td>866</td></tr><tr><td>2026-11-03 05:46</td><td>0</td><td>0</td><td>62</td><td>986</td></tr><tr><td>2026-11-03 05:44</td><td>0</td><td>0</td><td>62</td><td>992</td></tr><tr><td>2026-11-03 05:30</td><td>0</td><td>0</td><td>57</td><td>972</td></tr></tbody></table></div></main>
 <footer><div class="wrap">Contains modified Copernicus Sentinel data 2026 &middot; AIS: aisstream.io, Danish Maritime Authority &middot;
 &copy; OpenStreetMap contributors</div></footer>
 <script>(function(){const e=document.getElementById('utc');const t=()=>e.textContent=new Date().toISOString().slice(11,19);t();setInterval(t,1000);})();</script>

diff --git a/docs/mumbai/index.html b/docs/mumbai/index.html
@@ -83,7 +83,7 @@ footer{border-top:1px solid var(--line);padding:18px 0 28px;font:12px/1.6 var(--
   <div><div class="kicker">SAR &times; AIS &middot; MARITIME AWARENESS</div><div class="title">DARK VESSEL <b>DETECTION</b></div></div></a>
  <div class="status"><span class="pill"><span class="dot live"></span>AIS FEED <strong>LIVE</strong></span>
   <span class="pill">UTC <strong id="utc">--:--:--</strong></span>
-  <span class="pill">UPDATED <strong>03 Nov 08:22</strong></span></div>
+  <span class="pill">UPDATED <strong>03 Nov 08:36</strong></span></div>
 </div><nav class="tabs"><a class="" href="../index.html">OVERVIEW</a><a class="on" href="../mumbai/index.html">MUMBAI</a><a class="" href="../denmark/index.html">DENMARK</a><a class="" href="../nn/index.html">NEURAL NET</a><a class="" href="../demo/index.html">SIMULATION</a></nav></div></header>
 <main class="wrap"><div class="coords">SECTOR // MUMBAI &middot; 18.80&ndash;19.10&deg;N &middot; 72.55&ndash;72.95&deg;E</div>
 <h1>Mumbai coast and harbour, India</h1>
@@ -117,7 +117,7 @@ L.control.layers(null,{'Radar detections (selected pass)':det,'Live AIS, last 30
 <h2>Pass log</h2><div class='tablewrap'><table><thead><tr><th>pass (UTC)</th><th>ships</th><th>matched</th><th>not tracked</th><th>low conf.</th><th>match rate</th><th>AIS msgs</th></tr></thead><tbody><tr><td>2026-10-24 01:02 UTC</td><td>115</td><td class='ok'>0</td><td class='bad'>0</td><td style='color:var(--amber)'>115</td><td>0%</td><td>0</td></tr></tbody></table></div>
 <h2>Telemetry</h2><img class="chart" src="charts.png" alt="AIS messages per hour and ships detected per pass">
 <ul class="acq" style="margin-top:10px"><li>AIS MSG / H &middot; 0</li><li>FEED GAPS 24 H &middot; 16
-(1157 min)</li></ul>
+(1144 min)</li></ul>
 <h2>Sentinel-1 acquisitions &middot; 14 days</h2><ul class="acq"><li>2026-10-24 01:02 UTC</li></ul></main>
 <footer><div class="wrap">Contains modified Copernicus Sentinel data 2026 &middot; AIS: aisstream.io, Danish Maritime Authority &middot;
 &copy; OpenStreetMap contributors</div></footer>

diff --git a/docs/demo/index.html b/docs/demo/index.html
@@ -83,7 +83,7 @@ footer{border-top:1px solid var(--line);padding:18px 0 28px;font:12px/1.6 var(--
   <div><div class="kicker">SAR &times; AIS &middot; MARITIME AWARENESS</div><div class="title">DARK VESSEL <b>DETECTION</b></div></div></a>
  <div class="status"><span class="pill"><span class="dot live"></span>AIS FEED <strong>LIVE</strong></span>
   <span class="pill">UTC <strong id="utc">--:--:--</strong></span>
-  <span class="pill">UPDATED <strong>03 Nov 08:22</strong></span></div>
+  <span class="pill">UPDATED <strong>03 Nov 08:36</strong></span></div>
 </div><nav class="tabs"><a class="" href="../index.html">OVERVIEW</a><a class="" href="../mumbai/index.html">MUMBAI</a><a class="" href="../denmark/index.html">DENMARK</a><a class="" href="../nn/index.html">NEURAL NET</a><a class="on" href="../demo/index.html">SIMULATION</a></nav></div></header>
 <main class="wrap"><div class="coords">SIMULATION // SYNTHETIC SCENES WITH KNOWN GROUND TRUTH</div>
 <h1>Simulation</h1>

diff --git a/docs/nn/index.html b/docs/nn/index.html
@@ -83,7 +83,7 @@ footer{border-top:1px solid var(--line);padding:18px 0 28px;font:12px/1.6 var(--
   <div><div class="kicker">SAR &times; AIS &middot; MARITIME AWARENESS</div><div class="title">DARK VESSEL <b>DETECTION</b></div></div></a>
  <div class="status"><span class="pill"><span class="dot live"></span>AIS FEED <strong>LIVE</strong></span>
   <span class="pill">UTC <strong id="utc">--:--:--</strong></span>
-  <span class="pill">UPDATED <strong>03 Nov 08:22</strong></span></div>
+  <span class="pill">UPDATED <strong>03 Nov 08:36</strong></span></div>
 </div><nav class="tabs"><a class="" href="../index.html">OVERVIEW</a><a class="" href="../mumbai/index.html">MUMBAI</a><a class="" href="../denmark/index.html">DENMARK</a><a class="on" href="../nn/index.html">NEURAL NET</a><a class="" href="../demo/index.html">SIMULATION</a></nav></div></header>
 <main class="wrap"><div class="coords">NEURAL NETWORK // SHIPCNN</div>
 <h1>ShipCNN</h1>
